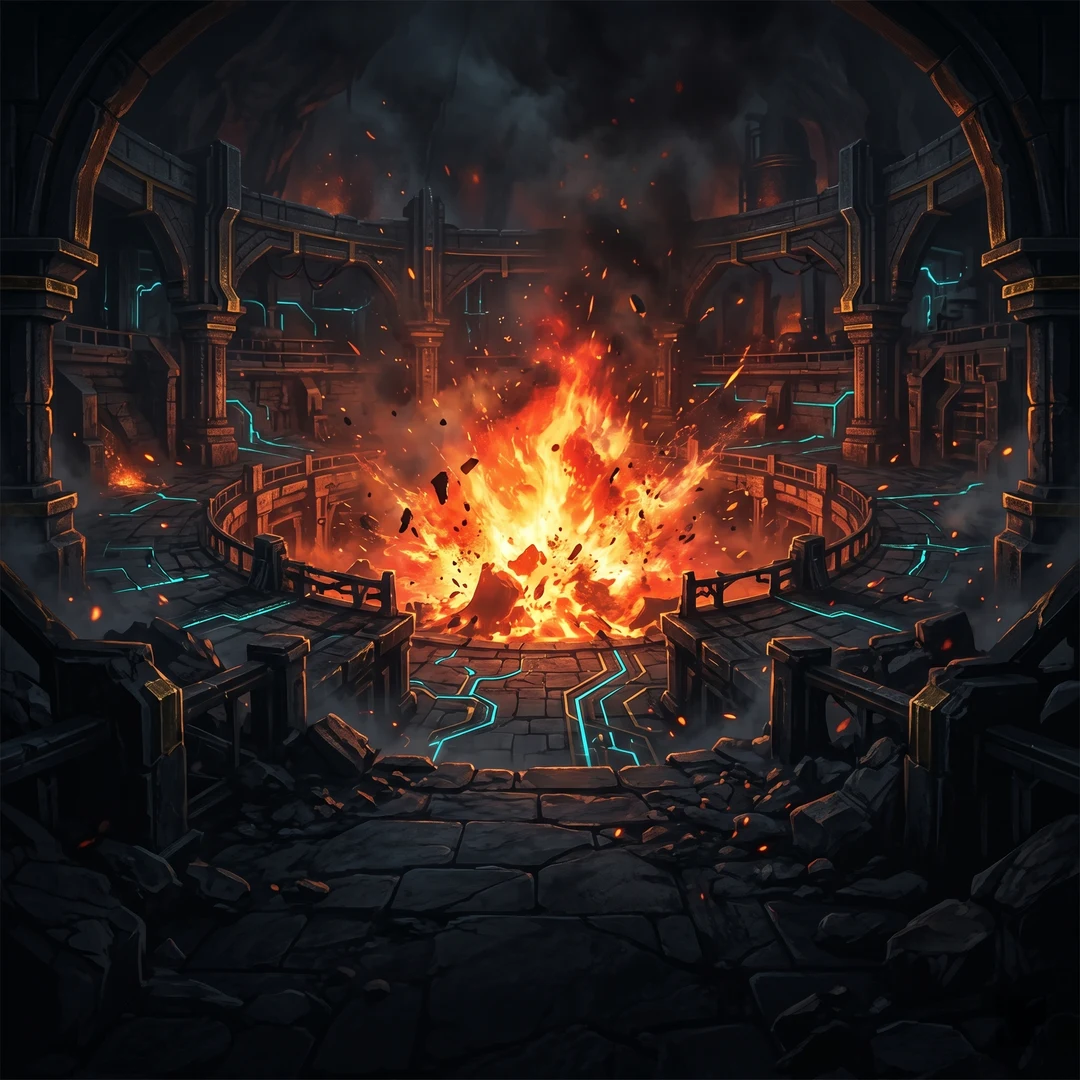
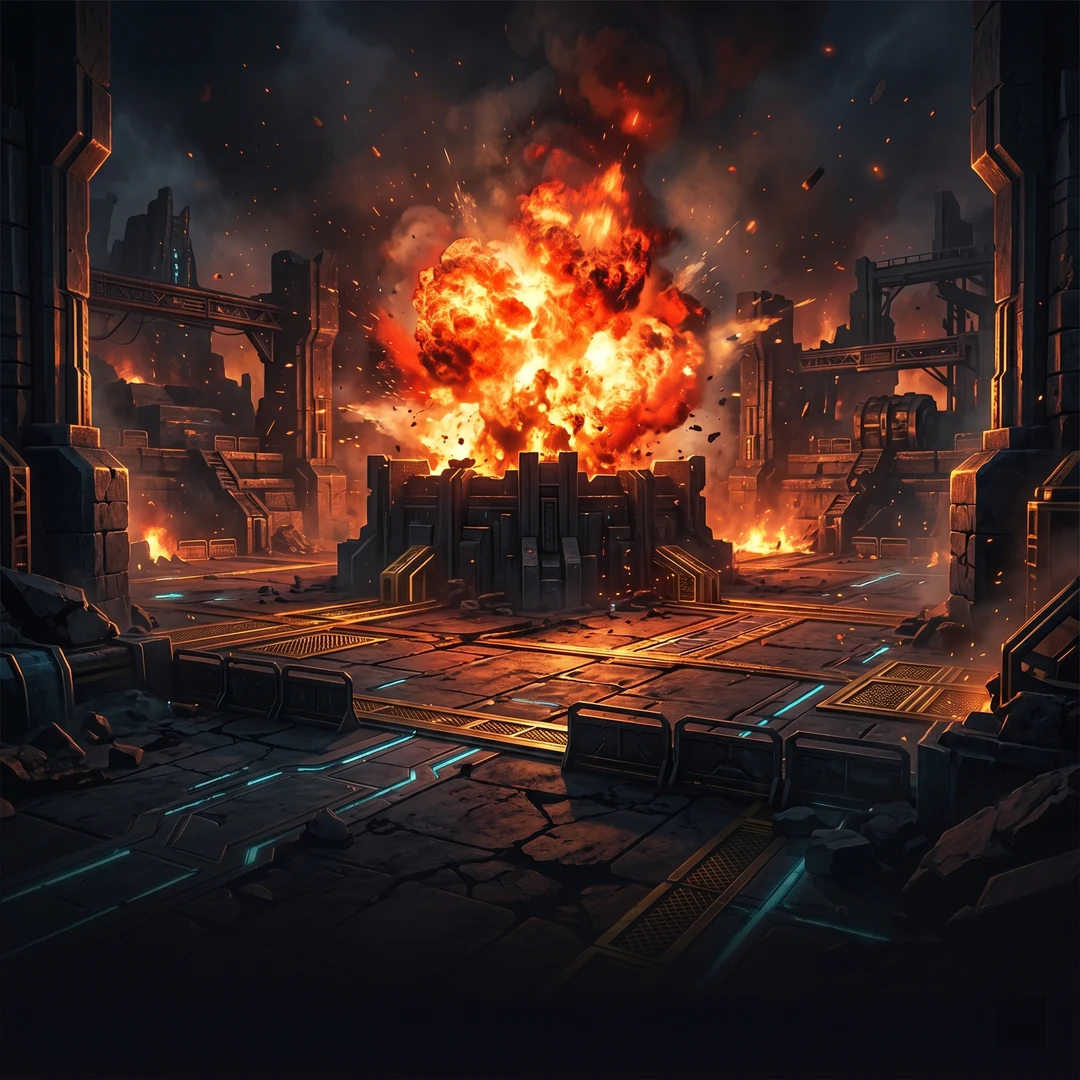
Share card: all 5 variants use AI key-art backgrounds
Credits topped up — generated bg_1..4 (neon / golden / crystal / money-matrix)
and refreshed bg_0; every variant now uses a distinct AI background (procedural
fallback kept). Bump ASSET_VER (bg_0 replaced).

diff --git a/apps/client/src/ui/shareCard.ts b/apps/client/src/ui/shareCard.ts
@@ -28,10 +28,10 @@ const SIZE = 1080;
 // procedural gradient pair.
 const VARIANTS: Array<{ accent: string; bg: number | null; g0: string; g1: string }> = [
   { accent: "#ff7a30", bg: 0, g0: "#3a1a10", g1: "#0a0c12" },
-  { accent: "#39d3ff", bg: null, g0: "#10222e", g1: "#070b12" },
-  { accent: "#ffcc33", bg: null, g0: "#2e2410", g1: "#0a0a08" },
-  { accent: "#c879ff", bg: null, g0: "#241033", g1: "#0a0712" },
-  { accent: "#7bd66a", bg: null, g0: "#0f2a18", g1: "#070f0a" },
+  { accent: "#39d3ff", bg: 1, g0: "#10222e", g1: "#070b12" },
+  { accent: "#ffcc33", bg: 2, g0: "#2e2410", g1: "#0a0a08" },
+  { accent: "#c879ff", bg: 3, g0: "#241033", g1: "#0a0712" },
+  { accent: "#7bd66a", bg: 4, g0: "#0f2a18", g1: "#070f0a" },
 ];
 export const VARIANT_COUNT = VARIANTS.length;
 

diff --git a/apps/client/src/game/assets.ts b/apps/client/src/game/assets.ts
@@ -45,7 +45,7 @@ const IMG_EXTS = [".webp", ".png"];
 // Cache-buster for sprite URLs. The PWA caches sprites by URL (CacheFirst), so a
 // REPLACED file with the same name would otherwise be served stale forever.
 // BUMP THIS whenever you change any sprite art so clients fetch the new version.
-export const ASSET_VER = "11";
+export const ASSET_VER = "12";
 
 // Directional walk frames (optional): skin<id>_<down|up|side>_<0..2>.
 // "side" is used for right; left is the same sprite mirrored. Missing frames